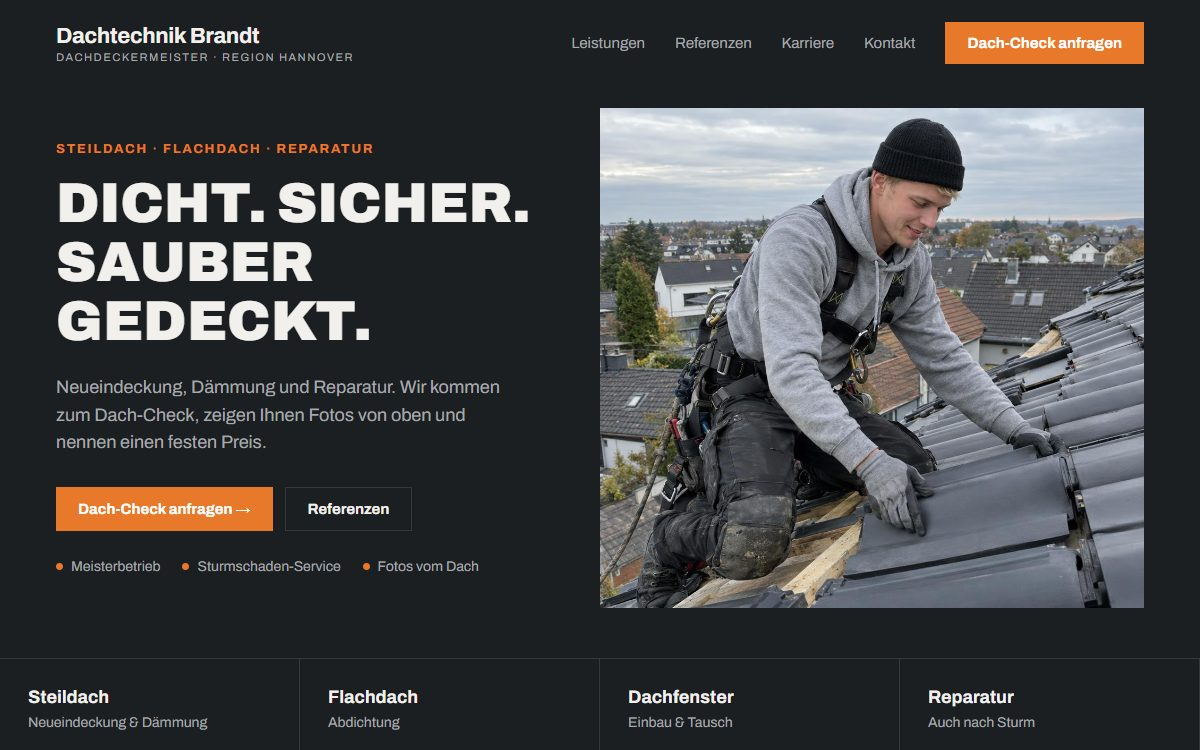
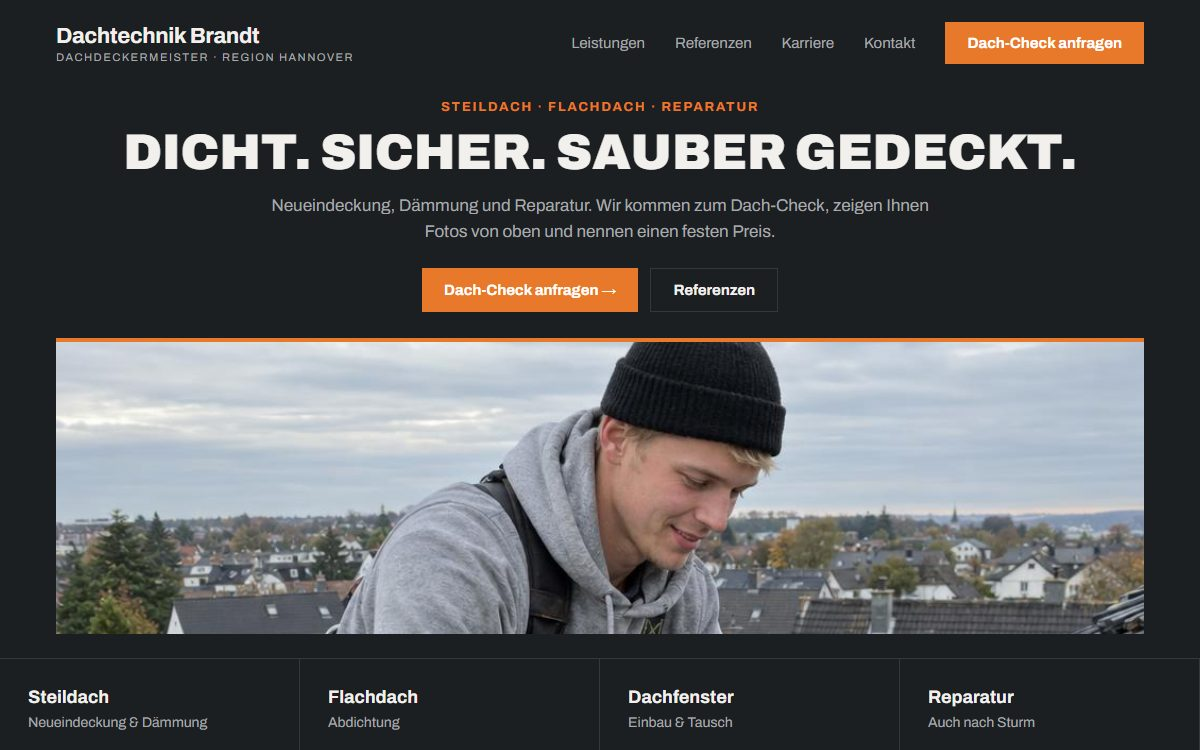
Handwerk page: distinct layouts for the example drafts, drop RopeFX
Painter draft now full-bleed photo, roofer draft centred headline with a
wide photo band; SHK keeps the split layout. RopeFX block removed at
Jan's request, so the section shows the three drafts only.

diff --git a/content/handwerk-copy.ts b/content/handwerk-copy.ts
@@ -87,14 +87,14 @@ export const handwerk = {
     eyebrow: '[04] — So sieht dein Entwurf aus',
     title: 'Drei Beispiel-Entwürfe.',
     text: 'So sieht ein Entwurf aus, wie du ihn nach 48 Stunden bekommst. Deiner zeigt deine Leistungen, deine Baustellen und dein Team.',
-    // Echte Referenz unter den Beispiel-Entwürfen (leer = keine)
-    realText: 'RopeFX führt Höhenarbeiten und Industrieklettern in Berlin aus. Wir haben Website und Anfrage-Strecke gebaut: Leistungen auf einen Blick, Referenzen, und ein Formular, das die wichtigsten Infos zum Auftrag gleich mit abfragt.',
-    href: 'https://ropefx.com',
-    url: 'ropefx.com',
-    img: '/portfolio-shots/ropefx.jpg',
-    alt: 'Screenshot der Website ropefx.com',
-    link: 'ropefx.com ansehen →',
-    moreLabel: 'Aus der Praxis',
+    // Echte Referenz unter den Beispiel-Entwürfen (leer = keine; RopeFX am 12.10. auf Jans Wunsch raus)
+    realText: '',
+    href: '',
+    url: '',
+    img: '',
+    alt: '',
+    link: '',
+    moreLabel: '',
     exclude: 'RopeFX',
     // Beispiel-Entwürfe statt echter Referenz (z. B. Praxis); leer = echte Referenz + weitere Projekte
     demos: [
